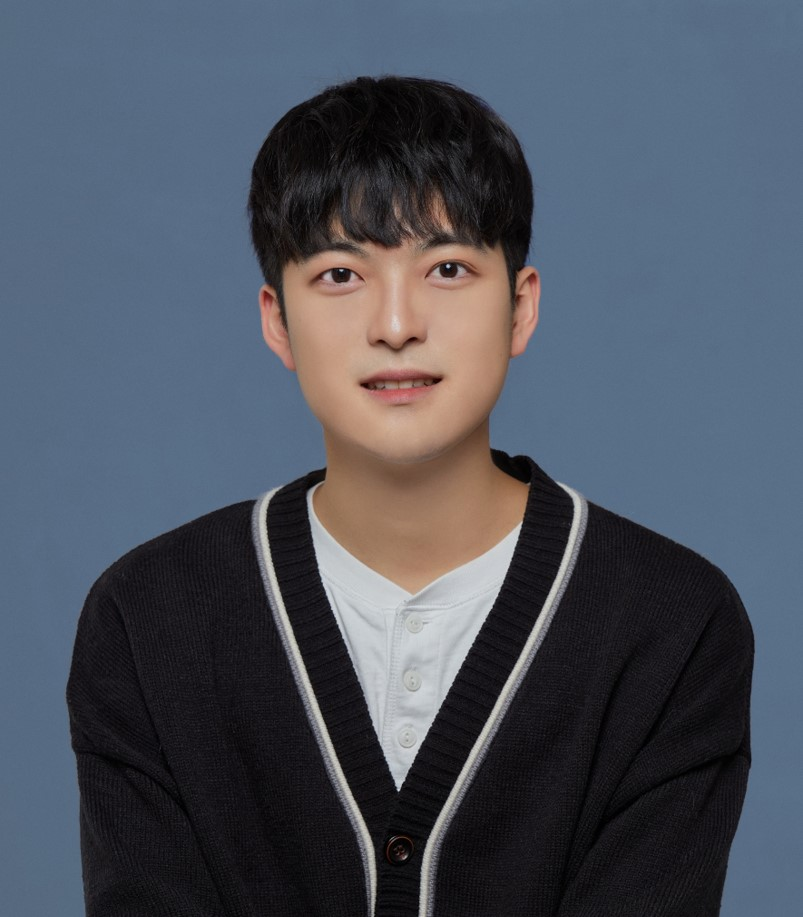
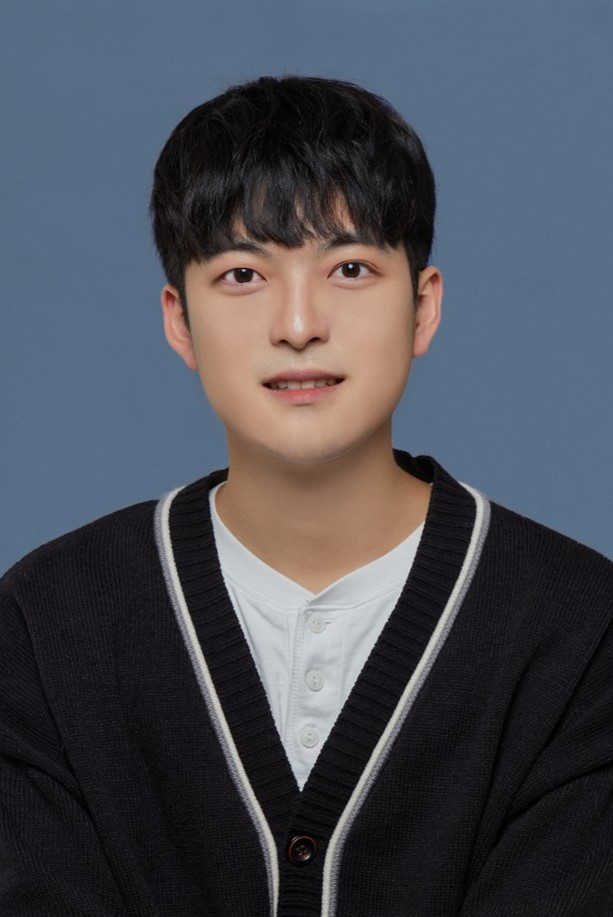
Updated Website

Changed region(s): [[0.0, 0.0611, 1.0, 1.0], [0.5269, 0.7634, 0.5579, 0.8244], [0.4339, 0.6107, 0.4959, 0.6412]]

diff --git a/docs/members/index.html b/docs/members/index.html
@@ -281,19 +281,19 @@
       </div>
       
       <div class="col col-4 item"> 
-        <img alt="Baseline" width="150px" height="180px" src="/members/default.jpg">
+        <img alt="Baseline" width="150px" height="180px" src="/members/DongwooKANG.jpg">
         <h4><a href="http://mvp.yonsei.ac.kr/members/dongwookang/">Dongwoo Kang</a></h4>
         <p>M.S/Ph.D 1st</p>
       </div>
       
       <div class="col col-4 item"> 
-        <img alt="Baseline" width="150px" height="180px" src="/members/default.jpg">
+        <img alt="Baseline" width="150px" height="180px" src="/members/MinseokKANG.jpg">
         <h4><a href="http://mvp.yonsei.ac.kr/members/minseokkang/">Minseok Kang</a></h4>
         <p>M.S/Ph.D 1st</p>
       </div>
       
       <div class="col col-4 item"> 
-        <img alt="Baseline" width="150px" height="180px" src="/members/default.jpg">
+        <img alt="Baseline" width="150px" height="180px" src="/members/SunhyukYIM.jpg">
         <h4><a href="http://mvp.yonsei.ac.kr/members/sunhyukyim/">Sunhyuk Yim</a></h4>
         <p>M.S 1st</p>
       </div>
@@ -488,7 +488,7 @@
             </li>
             <li><b>Affiliation: </b>충북대학교 전자공학부 교수</li>
             <li><b>Contact: </b>ban@cbnu.ac.kr</li>
-            <li><b>Web: </b>https://milab.cbnu.ac.kr</li>
+            <li><b>Web: </b><a href="https://milab.cbnu.ac.kr">https://milab.cbnu.ac.kr</a></li>
         </ul>
     </div>   
     

diff --git a/themes/kube/layouts/section/members.html b/themes/kube/layouts/section/members.html
@@ -240,7 +240,7 @@
             </li>
             <li><b>Affiliation: </b>충북대학교 전자공학부 교수</li>
             <li><b>Contact: </b>ban@cbnu.ac.kr</li>
-            <li><b>Web: </b>https://milab.cbnu.ac.kr</li>
+            <li><b>Web: </b><a href="https://milab.cbnu.ac.kr">https://milab.cbnu.ac.kr</a></li>
         </ul>
     </div>   
     

diff --git a/docs/members/dongwookang/index.html b/docs/members/dongwookang/index.html
@@ -138,7 +138,7 @@
  <table>
     <tr>
        <td width="280" align="center" valign="top">
-          <img alt="Baseline" width="200px" height="240" src="/members/default.jpg">
+          <img alt="Baseline" width="200px" height="240" src="/members/DongwooKANG.jpg">
        </td>
        <td>
             <h4>Dongwoo Kang (강동우)</h4>

diff --git a/docs/members/minseokkang/index.html b/docs/members/minseokkang/index.html
@@ -138,7 +138,7 @@
  <table>
     <tr>
        <td width="280" align="center" valign="top">
-          <img alt="Baseline" width="200px" height="240" src="/members/default.jpg">
+          <img alt="Baseline" width="200px" height="240" src="/members/MinseokKANG.jpg">
        </td>
        <td>
             <h4>Minseok Kang (강민석)</h4>

diff --git a/docs/members/sunhyukyim/index.html b/docs/members/sunhyukyim/index.html
@@ -138,7 +138,7 @@
  <table>
     <tr>
        <td width="280" align="center" valign="top">
-          <img alt="Baseline" width="200px" height="240" src="/members/default.jpg">
+          <img alt="Baseline" width="200px" height="240" src="/members/SunhyukYIM.jpg">
        </td>
        <td>
             <h4>Sunhyuk Yim (임선혁)</h4>

diff --git a/content/members/DongwooKANG.md b/content/members/DongwooKANG.md
@@ -4,14 +4,14 @@ description = "M.S/Ph.D 1st"
 weight = 340
 draft = false
 toc = true
-bref = "/members/default.jpg"
+bref = "/members/DongwooKANG.jpg"
 
 +++
 
 <table>
     <tr>
        <td width="280" align="center" valign="top">
-          <img alt="Baseline" width="200px" height="240" src="/members/default.jpg">
+          <img alt="Baseline" width="200px" height="240" src="/members/DongwooKANG.jpg">
        </td>
        <td>
             <h4>Dongwoo Kang (강동우)</h4>

diff --git a/content/members/MinseokKANG.md b/content/members/MinseokKANG.md
@@ -4,14 +4,14 @@ description = "M.S/Ph.D 1st"
 weight = 340
 draft = false
 toc = true
-bref = "/members/default.jpg"
+bref = "/members/MinseokKANG.jpg"
 
 +++
 
 <table>
     <tr>
        <td width="280" align="center" valign="top">
-          <img alt="Baseline" width="200px" height="240" src="/members/default.jpg">
+          <img alt="Baseline" width="200px" height="240" src="/members/MinseokKANG.jpg">
        </td>
        <td>
             <h4>Minseok Kang (강민석)</h4>

diff --git a/content/members/SunhyukYIM.md b/content/members/SunhyukYIM.md
@@ -4,14 +4,14 @@ description = "M.S 1st"
 weight = 340
 draft = false
 toc = true
-bref = "/members/default.jpg"
+bref = "/members/SunhyukYIM.jpg"
 
 +++
 
 <table>
     <tr>
        <td width="280" align="center" valign="top">
-          <img alt="Baseline" width="200px" height="240" src="/members/default.jpg">
+          <img alt="Baseline" width="200px" height="240" src="/members/SunhyukYIM.jpg">
        </td>
        <td>
             <h4>Sunhyuk Yim (임선혁)</h4>
